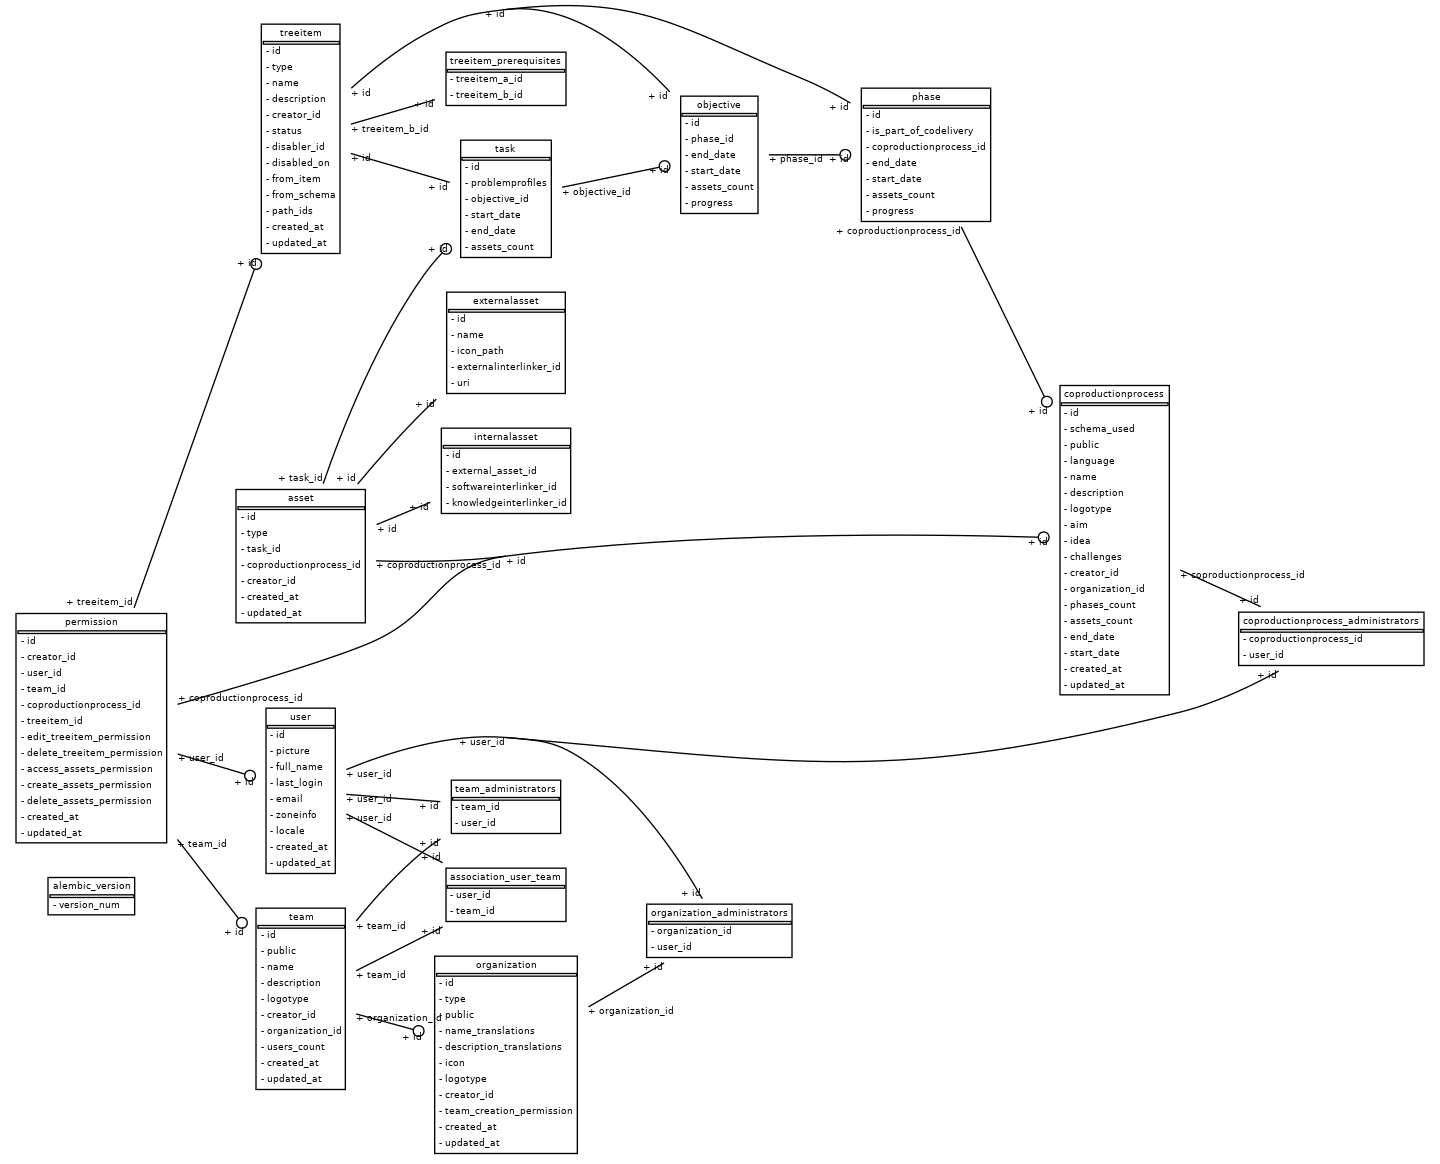
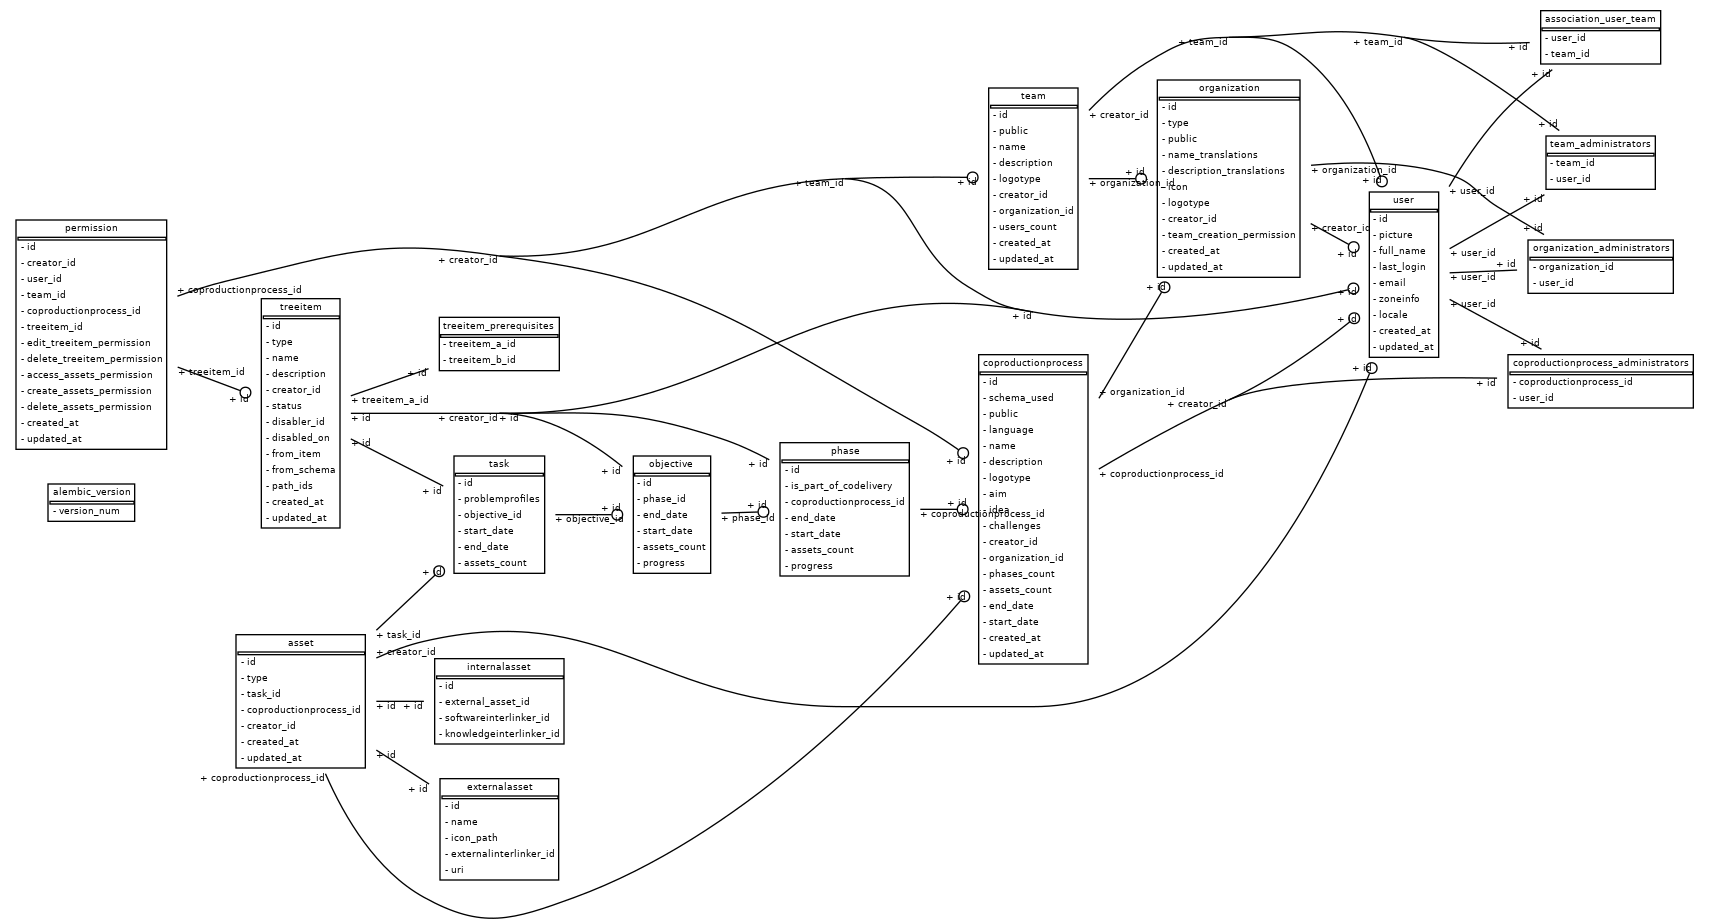
Without rabbit

diff --git a/coproduction/alembic/versions/cf74bab0cdff_treeitems.py b/coproduction/alembic/versions/cf74bab0cdff_treeitems.py
@@ -1,8 +1,8 @@
 """treeitems
 
-Revision ID: e42ad87fdba2
+Revision ID: cf74bab0cdff
 Revises: 
-Create Date: 2022-06-16 10:01:36.423741
+Create Date: 2022-06-20 13:18:48.827350
 
 """
 from alembic import op
@@ -10,7 +10,7 @@ import sqlalchemy as sa
 from sqlalchemy.dialects import postgresql
 
 # revision identifiers, used by Alembic.
-revision = 'e42ad87fdba2'
+revision = 'cf74bab0cdff'
 down_revision = None
 branch_labels = None
 depends_on = None
@@ -43,7 +43,7 @@ def upgrade():
     )
     op.create_table('organization',
     sa.Column('id', postgresql.UUID(as_uuid=True), nullable=False),
-    sa.Column('type', sa.Enum('citizen', 'public_office', 'nonprofit_organization', 'forprofit_organization', name='organizationtypes', native_enum=False), nullable=False),
+    sa.Column('default_team_type', sa.Enum('citizen', 'public_administration', 'nonprofit_organization', 'forprofit_organization', name='roletypes', native_enum=False), nullable=False),
     sa.Column('public', sa.Boolean(), nullable=True),
     sa.Column('name_translations', postgresql.HSTORE(text_type=sa.Text()), nullable=True),
     sa.Column('description_translations', postgresql.HSTORE(text_type=sa.Text()), nullable=True),
@@ -118,6 +118,7 @@ def upgrade():
     sa.Column('name', sa.String(), nullable=False),
     sa.Column('description', sa.String(), nullable=False),
     sa.Column('logotype', sa.String(), nullable=True),
+    sa.Column('type', sa.Enum('citizen', 'public_administration', 'nonprofit_organization', 'forprofit_organization', name='roletypes', native_enum=False), nullable=False),
     sa.Column('creator_id', sa.String(), nullable=True),
     sa.Column('organization_id', postgresql.UUID(as_uuid=True), nullable=True),
     sa.Column('users_count', sa.Integer(), nullable=True),
@@ -222,7 +223,6 @@ def upgrade():
     sa.ForeignKeyConstraint(['id'], ['asset.id'], ondelete='CASCADE'),
     sa.PrimaryKeyConstraint('id')
     )
-
     op.create_foreign_key(None, 'asset', 'user', ['creator_id'], ['id'], ondelete='SET NULL', use_alter=True)
     op.create_foreign_key(None, 'coproductionprocess', 'user', ['creator_id'], ['id'], ondelete='SET NULL', use_alter=True)
     op.create_foreign_key(None, 'coproductionprocess', 'organization', ['organization_id'], ['id'], ondelete='SET NULL', use_alter=True)

diff --git a/coproduction/app/messages.py b/coproduction/app/messages.py
@@ -1,7 +1,4 @@
 import json
-import os
-from base64 import b64encode
-import aiormq
 import json
 from uuid import UUID
 import requests
@@ -27,13 +24,6 @@ class UUIDEncoder(json.JSONEncoder):
             return obj.hex
         return json.JSONEncoder.default(self, obj)
         
-exchange_name = os.environ.get("EXCHANGE_NAME")
-rabbitmq_host = os.environ.get("RABBITMQ_HOST")
-rabbitmq_user = os.environ.get("RABBITMQ_USER")
-rabbitmq_password = os.environ.get("RABBITMQ_PASSWORD")
-
-url = "amqp://{}:{}@{}/".format(rabbitmq_user, rabbitmq_password, rabbitmq_host)
-
 async def log(data: dict):
     if is_logging_disabled():
         print("logging disabled")
@@ -43,24 +33,5 @@ async def log(data: dict):
         data["user_id"] = context.data.get("user", {}).get("sub", "anonymous")
             
     data["service"] = "coproduction"
-
-    # request = b64encode(json.dumps(data,cls=UUIDEncoder).encode())
-    # 
-    # connection = await aiormq.connect(url)
-    # channel = await connection.channel()
-    # 
-    # await channel.exchange_declare(
-    #     exchange=exchange_name, exchange_type='direct'
-    # )
-    # 
-    # await channel.basic_publish(
-    #     request, 
-    #     routing_key='logging', 
-    #     exchange=exchange_name,
-    #     properties=aiormq.spec.Basic.Properties(
-    #         delivery_mode=2
-    #         # Messages marked as 'persistent' that are delivered to 'durable' queues will be logged to disk. Durable queues are recovered in the event of a crash, along with any persistent messages they stored prior to the crash.
-    #     )
-    # )
     res = requests.post("http://logging/api/v1/log", data=json.dumps(data,cls=UUIDEncoder), timeout=2)
     print("message sent", res.json())

diff --git a/coproduction/app/teams/models.py b/coproduction/app/teams/models.py
@@ -1,6 +1,6 @@
 import uuid
 
-from sqlalchemy import Column, ForeignKey, String, Table, Integer, func, Boolean
+from sqlalchemy import Column, ForeignKey, String, Table, Integer, func, Boolean, Enum
 from sqlalchemy.dialects.postgresql import UUID
 from sqlalchemy.orm import backref, relationship
 
@@ -8,10 +8,10 @@ from app.general.db.base_class import Base as BaseModel
 from app.config import settings
 from sqlalchemy.ext.associationproxy import association_proxy
 from app.tables import user_team_association_table
-from app.organizations.models import OrganizationTypes
 from app.tables import team_administrators_association_table
 from sqlalchemy_utils import aggregated
 from sqlalchemy.orm import Session
+from app.utils import RoleTypes
 
 class Team(BaseModel):
     """Team Class contains standard information for a Team."""
@@ -20,6 +20,7 @@ class Team(BaseModel):
     name = Column(String, unique=True, nullable=False)
     description = Column(String, nullable=False)
     logotype = Column(String, nullable=True)
+    type = Column(Enum(RoleTypes, create_constraint=False, native_enum=False), nullable=False)
 
     # created by
     creator_id = Column(String, ForeignKey("user.id", use_alter=True, ondelete='SET NULL'))

diff --git a/coproduction/app/organizations/models.py b/coproduction/app/organizations/models.py
@@ -19,12 +19,8 @@ from sqlalchemy.orm import relationship
 from app.locales import translation_hybrid
 from sqlalchemy_utils import aggregated
 from sqlalchemy.orm import Session
+from app.utils import RoleTypes
 
-class OrganizationTypes(str, enum.Enum):
-    citizen = "citizen"
-    public_office = "public_office"
-    nonprofit_organization = "nonprofit_organization"
-    forprofit_organization = "forprofit_organization"
 
 class TeamCreationPermissions(str, enum.Enum):
     administrators = "administrators"
@@ -33,7 +29,7 @@ class TeamCreationPermissions(str, enum.Enum):
 
 class Organization(BaseModel):
     id = Column(UUID(as_uuid=True), primary_key=True, default=uuid.uuid4)
-    type = Column(Enum(OrganizationTypes, create_constraint=False, native_enum=False), nullable=False)
+    default_team_type = Column(Enum(RoleTypes, create_constraint=False, native_enum=False), nullable=False)
 
     public = Column(Boolean, default=False)
     name_translations = Column(HSTORE)

diff --git a/coproduction/app/initial_data.py b/coproduction/app/initial_data.py
@@ -4,8 +4,8 @@ from app.general.db.session import SessionLocal
 from app.messages import set_logging_disabled
 from app.organizations.crud import exportCrud as crud
 from app.organizations.schemas import OrganizationCreate, OrganizationPatch
-from app.organizations.models import OrganizationTypes, TeamCreationPermissions
-from app.config import settings
+from app.organizations.models import TeamCreationPermissions
+from app.utils import RoleTypes
 
 async def get_or_create_citizens_org(db):
     data = {
@@ -23,7 +23,7 @@ async def get_or_create_citizens_org(db):
         },
         "public": True,
         "logotype": "/static/organizations/citizens.png",
-        "type": OrganizationTypes.citizen.value,
+        "default_team_type": RoleTypes.citizen.value,
         "team_creation_permission": TeamCreationPermissions.anyone.value,
     }
     if org := await crud.get_by_name_translations(db=db, name_translations=data["name_translations"]):

diff --git a/coproduction/app/organizations/schemas.py b/coproduction/app/organizations/schemas.py
@@ -3,14 +3,15 @@ from datetime import datetime
 from typing import List, Optional
 
 from pydantic import BaseModel, validator
-from .models import OrganizationTypes, TeamCreationPermissions
+from .models import TeamCreationPermissions
+from app.utils import RoleTypes
 
 class OrganizationBase(BaseModel):
     name_translations: dict
     description_translations: Optional[dict]
     icon: Optional[str]
     logotype: Optional[str]
-    type: OrganizationTypes
+    default_team_type: RoleTypes
     team_creation_permission: Optional[TeamCreationPermissions]
     public: Optional[bool]
     
@@ -19,7 +20,7 @@ class OrganizationCreate(OrganizationBase):
 
 class OrganizationPatch(OrganizationCreate):
     name_translations: Optional[dict]
-    type: Optional[OrganizationTypes]
+    default_team_type: Optional[RoleTypes]
 
 class Organization(OrganizationBase):
     id: uuid.UUID

diff --git a/coproduction/app/waits.py b/coproduction/app/waits.py
@@ -50,23 +50,6 @@ def wait_for_catalogue() -> None:
     before=before_log(logger, logging.INFO),
     after=after_log(logger, logging.WARN),
 )
-async def wait_for_rabbit() -> None:
-    try:
-        await log({
-            "service": "coproduction",
-            "user_id": "internal",
-            "action": "PRE_START",
-        })
-    except Exception as e:
-        logger.error(e)
-        raise e
-
-@retry(
-    stop=stop_after_attempt(max_tries),
-    wait=wait_fixed(wait_seconds),
-    before=before_log(logger, logging.INFO),
-    after=after_log(logger, logging.WARN),
-)
 def wait_for_coproduction() -> None:
     try:
         requests.get(f"http://{settings.CATALOGUE_SERVICE_NAME}/coproduction/healthcheck", timeout=3).json()

diff --git a/coproduction/app/teams/schemas.py b/coproduction/app/teams/schemas.py
@@ -4,7 +4,7 @@ from typing import Optional, List
 from pydantic import BaseModel, validator
 from app.general.utils.AllOptional import AllOptional
 from datetime import datetime
-from app.config import settings
+from app.utils import RoleTypes
 from app.users.schemas import UserOut
 
 class TeamBase(BaseModel):
@@ -12,12 +12,14 @@ class TeamBase(BaseModel):
     description: str
     organization_id: Optional[uuid.UUID]
     public: Optional[bool]
+    type: RoleTypes
 
 class TeamCreate(TeamBase):
     user_ids: List[str]
 
 class TeamPatch(TeamBase, metaclass=AllOptional):
     logotype: Optional[str]
+    type: Optional[RoleTypes]
 
 class Team(TeamBase):
     id: uuid.UUID

diff --git a/coproduction/app/utils.py b/coproduction/app/utils.py
@@ -1,4 +1,5 @@
 from sqlalchemy.ext.hybrid import hybrid_property
+import enum
 
 def recursive_check(id, obj):
     if hasattr(obj, "prerequisites"):
@@ -25,3 +26,9 @@ class cached_hybrid_property(hybrid_property):
                 value = self.fget(instance)
                 instance.__dict__[name] = value
             return value
+
+class RoleTypes(str, enum.Enum):
+    citizen = "citizen"
+    public_administration = "public_administration"
+    nonprofit_organization = "nonprofit_organization"
+    forprofit_organization = "forprofit_organization"

diff --git a/coproduction/app/pre_start.py b/coproduction/app/pre_start.py
@@ -1,6 +1,6 @@
 import asyncio
 import logging
-from app.waits import wait_for_catalogue, wait_for_database, wait_for_rabbit
+from app.waits import wait_for_catalogue, wait_for_database
 
 logging.basicConfig(level=logging.INFO)
 logger = logging.getLogger(__name__)
@@ -8,7 +8,6 @@ logger = logging.getLogger(__name__)
 async def main() -> None:
     logger.info("Initializing service")
     wait_for_database()
-    await wait_for_rabbit()
     wait_for_catalogue()
     logger.info("Services finished initializing")
 

diff --git a/coproduction/app/config.py b/coproduction/app/config.py
@@ -48,12 +48,6 @@ class Settings(BaseSettings):
     CATALOGUE_SERVICE_NAME: str
     CATALOGUE_PORT: int
     CATALOGUE_SERVICE: str = os.getenv("CATALOGUE_SERVICE_NAME") + ":" + os.getenv("CATALOGUE_PORT")
-
-    # Logging
-    RABBITMQ_HOST: str
-    RABBITMQ_USER: str
-    RABBITMQ_PASSWORD: str
-    EXCHANGE_NAME: str
     
     DEFAULT_LANGUAGE: str
     ALLOWED_LANGUAGES_LIST: list = os.getenv("ALLOWED_LANGUAGES", "").split(",")

diff --git a/coproduction/app/organizations/crud.py b/coproduction/app/organizations/crud.py
@@ -31,7 +31,7 @@ class CRUDOrganization(CRUDBase[Organization, OrganizationCreate, OrganizationPa
     def enrich_log_data(self, organization, logData):
         logData["model"] = "ORGANIZATION"
         logData["object_id"] = organization.id
-        logData["type"] = organization.type
+        logData["type"] = organization.default_team_type
         return logData
 
     # CRUD Permissions
